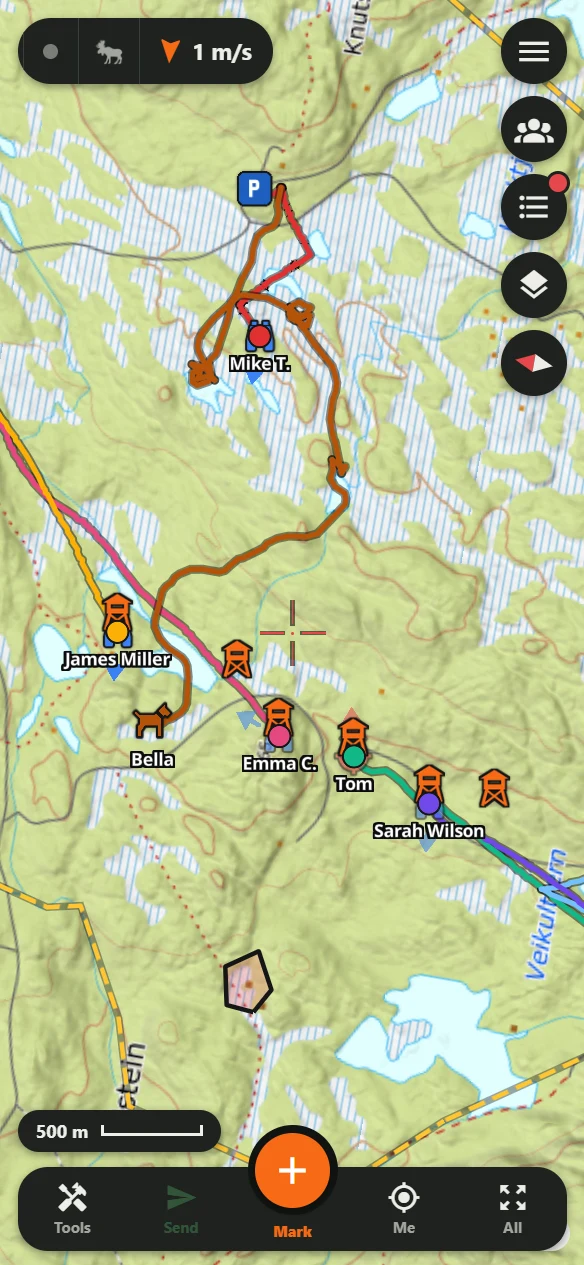
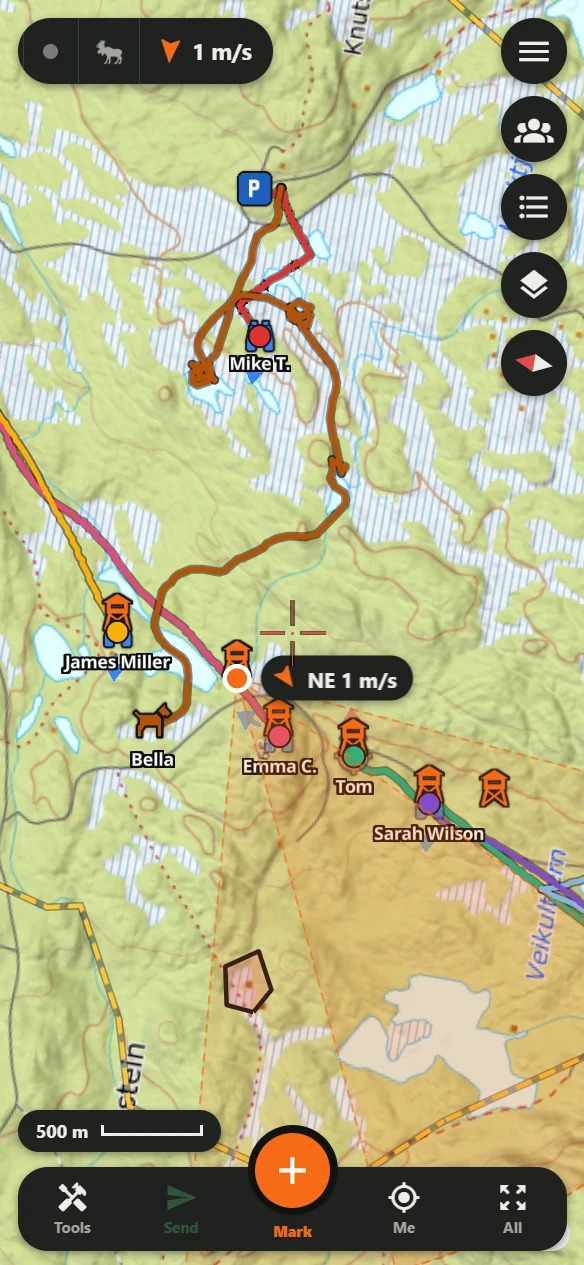
ny: show point wind with scent cone in hero and live screenshots
Claude-Session: https://claude.ai/code/session_01XqB72iaHJSbgdJkkHXWqAo

diff --git a/ny.html b/ny.html
@@ -167,7 +167,7 @@
       <p class="note en">Being tested by hunting teams in Norway · Coming soon to the App Store and Google Play</p>
     </div>
     <div class="phone tilt">
-      <img src="shots/hero-map.webp" width="584" height="1265" alt="HuntPack map during a hunt day: hunters on stands, the dog Bella with her track, wind and the hunting ground boundary">
+      <img src="shots/hero-map.webp" width="584" height="1265" alt="HuntPack map during a hunt day: hunters on stands, the dog Bella with her track, wind with the scent cone from a stand and the hunting ground boundary">
     </div>
   </div>
 </div>
@@ -198,7 +198,7 @@
         <ul class="ticks nb"><li>Jegere og hunder med spor og batterinivå</li><li>Vindretning og -styrke, så du ser hvor vitringen går</li><li>Observasjoner, skudd og ettersøk for hele laget</li></ul>
         <ul class="ticks en"><li>Hunters and dogs with tracks and battery level</li><li>Wind direction and strength, so you see where your scent goes</li><li>Sightings, shots and tracking for the whole team</li></ul>
       </div>
-      <div class="phone"><img src="shots/live.webp" width="584" height="1265" alt="Hunters on their stands, the dog with its track and the wind" loading="lazy"></div>
+      <div class="phone"><img src="shots/live.webp" width="584" height="1265" alt="Hunters on their stands, the dog with its track and the wind with the scent cone from a stand" loading="lazy"></div>
     </div>
 
     <div class="story">
